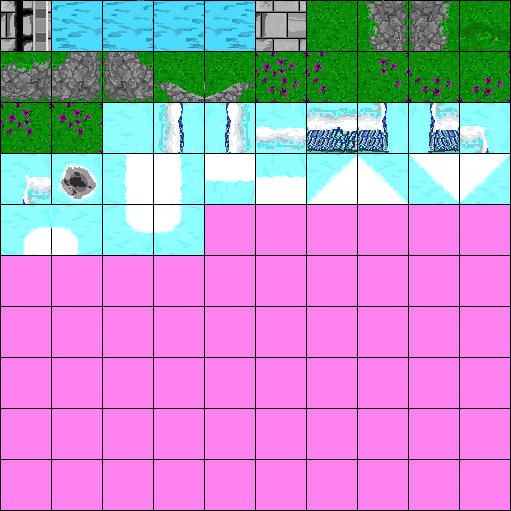
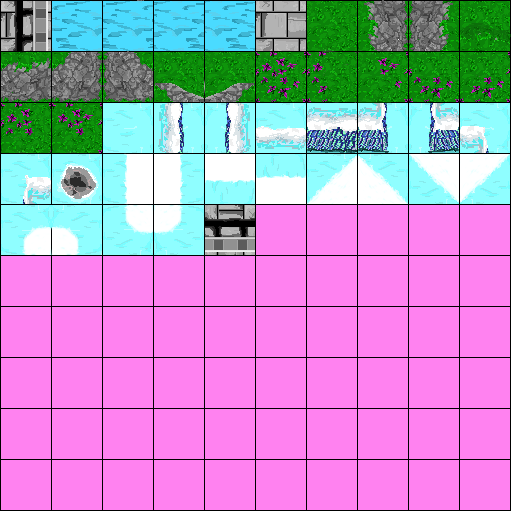
unstable build because i changed lots of stuff to do with level so it wont work, but levels longer and export levels.

Changed region(s): [[0.3816, 0.3816, 0.499, 0.499]]

diff --git a/Marchgame/org.tuxedofish.marchgame/terrain/Parser.java b/Marchgame/org.tuxedofish.marchgame/terrain/Parser.java
@@ -1,6 +1,7 @@
 package terrain;
 
 import java.awt.Color;
+import java.awt.Graphics;
 import java.awt.image.BufferedImage;
 import java.io.File;
 import java.io.IOException;
@@ -11,12 +12,13 @@ import javax.imageio.ImageIO;
 import org.lwjgl.opengl.Display;
 import org.lwjgl.util.vector.Vector2f;
 
+import texture.TextureHolder;
 import utils.MathUtils;
 
 public class Parser {
-	public ArrayList<Block> parseFile(File lvl, Vector2f pos) {
+	public ArrayList<Block> parseFile(File lvl, Vector2f pos, TextureHolder th) {
 		try {
-			return parseLevel(ImageIO.read(lvl), pos);
+			return parseLevel(ImageIO.read(lvl), pos, th);
 		} catch (IOException e) {
 			System.err.println("err reading lvl file");
 			e.printStackTrace();
@@ -24,9 +26,63 @@ public class Parser {
 		System.exit(1);
 		return null;
 	}
-	public ArrayList<Block> parseLevel(BufferedImage lvl, Vector2f pos) {
+	public void drawLevel(BufferedImage level, TextureHolder th) {
+		BufferedImage img = new BufferedImage(level.getWidth()*50, level.getHeight()*50, BufferedImage.TYPE_INT_ARGB);
+		
+		Graphics g = img.getGraphics();
+		
+		for(int i = 0; i < level.getWidth(); i++) {
+			for(int j = 0; j < level.getHeight(); j++) {
+//				if(new Color(level.getRGB(j, i)).equals(Color.green)) {
+//					g.drawImage()
+//				}
+//				//grass-pinkflower
+//				if(new Color(level.getRGB(j, i)).equals(new Color(255, 0, 255))) {
+//					blocks.add(new Block(pos.x + ((float)(j*b.getWidth())/Display.getWidth()), pos.y + ((float)(i*b.getHeight())/Display.getHeight()), 15, 50, 50));
+//				}
+				//path
+//				if(new Color(level.getRGB(j, i)).equals(new Color(255, 120, 0))) {
+//					g.drawImage(th.getImg().getSubimage((0*50)+1, (0*50)+1, 50, 50), i*50, j*50, this);
+//				}
+//				//rightpath
+//				if(new Color(level.getRGB(j, i)).equals(new Color(100, 100, 100))) {
+//					blocks.add(new Block(pos.x + ((float)(j*b.getWidth())/Display.getWidth()), pos.y + ((float)(i*b.getHeight())/Display.getHeight()), 5, 50, 50));
+//				}
+//				//bottompath
+//				if(new Color(level.getRGB(j, i)).equals(new Color(100, 20, 20))) {
+//					blocks.add(new Block(pos.x + ((float)(j*b.getWidth())/Display.getWidth()), pos.y + ((float)(i*b.getHeight())/Display.getHeight()), 45, 50, 50));
+//				}
+//				//port
+//				if(new Color(level.getRGB(j, i)).equals(new Color(255, 50, 50))) {
+//					blocks.add(new Block(pos.x + ((float)(j*b.getWidth())/Display.getWidth()), pos.y + ((float)(i*b.getHeight())/Display.getHeight()), 46, 50, 50));
+//				}
+//				//water
+//				if(new Color(level.getRGB(j, i)).equals(new Color(0, 0, 255))) {
+//					blocks.add(new Block(pos.x + ((float)(j*b.getWidth())/Display.getWidth()), pos.y + ((float)(i*b.getHeight())/Display.getHeight()), 1, 50, 50));
+//				}
+				g.setColor(Color.black);
+				g.drawRect(i*50, j*50, 50, 50);
+				
+				g.setColor(new Color(255, 130, 240));
+				g.fillRect(i*50+1, j*50+1, 50 - 1, 50 - 1);
+			}
+		}
+		
+		g.dispose();
+		
+		try {
+			ImageIO.write(img, "png", new File("currentlevel.png"));
+		} catch (IOException e) {
+			System.err.println("err writing image");
+			e.printStackTrace();
+			System.exit(1);
+		}
+	}
+	public ArrayList<Block> parseLevel(BufferedImage lvl, Vector2f pos, TextureHolder th) {
 		ArrayList<Block> blocks = new ArrayList<Block>();
 		final Block b = new Block(0.0f, 0.0f, 0, 50, 50);
+		
+		drawLevel(lvl, th);
 		
 		for(int i = 0; i < lvl.getHeight(); i++) {
 			for(int j = 0; j < lvl.getWidth(); j++) {
@@ -45,6 +101,14 @@ public class Parser {
 				//rightpath
 				if(new Color(lvl.getRGB(j, i)).equals(new Color(100, 100, 100))) {
 					blocks.add(new Block(pos.x + ((float)(j*b.getWidth())/Display.getWidth()), pos.y + ((float)(i*b.getHeight())/Display.getHeight()), 5, 50, 50));
+				}
+				//bottompath
+				if(new Color(lvl.getRGB(j, i)).equals(new Color(100, 20, 20))) {
+					blocks.add(new Block(pos.x + ((float)(j*b.getWidth())/Display.getWidth()), pos.y + ((float)(i*b.getHeight())/Display.getHeight()), 45, 50, 50));
+				}
+				//port
+				if(new Color(lvl.getRGB(j, i)).equals(new Color(255, 50, 50))) {
+					blocks.add(new Block(pos.x + ((float)(j*b.getWidth())/Display.getWidth()), pos.y + ((float)(i*b.getHeight())/Display.getHeight()), 46, 50, 50));
 				}
 				//water
 				if(new Color(lvl.getRGB(j, i)).equals(new Color(0, 0, 255))) {

diff --git a/Marchgame/org.tuxedofish.marchgame/logic/entities/EnemyLoader.java b/Marchgame/org.tuxedofish.marchgame/logic/entities/EnemyLoader.java
@@ -62,9 +62,11 @@ public class EnemyLoader extends Thread{
 	private int highscore;
 	private SpriteHolder spriteholder;
 	private ArrayList<Float> stops = new ArrayList<Float>();
+	private TextureHolder blockth;
 	
 	public EnemyLoader(boolean cached, String level, Controller parent
-			, BufferedImage enemy, ControllerTimer ct, DisplaySetup display, SpriteHolder spriteholder) {
+			, BufferedImage enemy, ControllerTimer ct, DisplaySetup display, SpriteHolder spriteholder, TextureHolder blockth) {
+		this.blockth = blockth;
 		this.level = level;
 		this.parent = parent;
 		this.enemy = enemy;
@@ -125,14 +127,15 @@ public class EnemyLoader extends Thread{
 			}
 			
 			try {
-				Parser parser = new Parser();
-				blocks = parser.parseLevel(images.getImage(level + ".png"), 
-						new Vector2f(-1.0f, -1.0f));
 				GridParser gp = new GridParser();
 				
 				TextureHolder texture = gp.parseGrid(images.getImage("spaceship.png"), 50);
 				player = new Player(images.getImage("spaceship.png"), 100, 100, texture, 0,
 						new Vector2f(0.0f, -0.75f), parent);
+				
+				Parser parser = new Parser();
+				blocks = parser.parseLevel(images.getImage(level + ".png"), 
+						new Vector2f(-1.0f, -1.0f), blockth);
 				
 //				Vector2f p = new Vector2f(-1.0f, 0.0f);
 //				BufferedImage img = images.getImage("trees.png");
@@ -161,11 +164,13 @@ public class EnemyLoader extends Thread{
 				}
 				
 				reader2.close();
-				
+				 // NEEDS SERIOUS WORK POSITIONING
 				if(level.equals("level1")) {
-					boss = new HiveEye(parent, player, ct);
+					boss = new HiveEye(parent, player, ct, 
+							(images.getImage("LEVEL1.png").getHeight() * 50) / (Display.getHeight())-2);
 				} else {
-					boss = new HiveJet(parent, player, ct);
+					boss = new HiveJet(parent, player, ct, 
+							(images.getImage("LEVEL1.png").getHeight() * 50) / (Display.getHeight())-2);
 				}
 			} catch (IOException e1) {
 				System.err.println("err loading img");

diff --git a/Marchgame/org.tuxedofish.marchgame/start/Controller.java b/Marchgame/org.tuxedofish.marchgame/start/Controller.java
@@ -217,7 +217,17 @@ public class Controller {
 				e.printStackTrace();
 			}
 			sph.finish();
-			el = new EnemyLoader(true, level, this, null, ct, display, sph);
+			
+			GridParser gp = new GridParser();
+			try {
+				blocktex = gp.parseGrid(images.getImage("LAND2.png"), 50);
+			} catch (IOException e) {
+				System.out.println("u done fucked up");
+				e.printStackTrace();
+			}
+			blocktex.finish();
+			
+			el = new EnemyLoader(true, level, this, null, ct, display, sph, blocktex);
 		}
 	}
 	public void startupfinish() throws IOException {
@@ -258,10 +268,9 @@ public class Controller {
 		
 		sch = new ScoreHandler(this, player);
 		sch.finish(glGenBuffers(), glGenVertexArrays());
+	
+		ImageReturn images = new ImageReturn();
 		
-		GridParser gp = new GridParser(); ImageReturn images = new ImageReturn();
-		blocktex = gp.parseGrid(images.getImage("LAND2.png"), 50);
-		blocktex.finish();
 		levelheight = (images.getImage("LEVEL1.png").getHeight() * 50) / (Display.getHeight())-2;
 		lr = new LevelRenderer(ct.addTimeStep(600));
 		blockdata = lr.getLevelData(blocks, blocktex);
@@ -545,7 +554,6 @@ public class Controller {
 	public void rendergl(ShaderHandler sh, DisplaySetup d) {
 		DataUtils util = new DataUtils();
 		util.begin(sh, d);
-		System.out.println(d.getPos().y*480);
 		for(int i=0; i<stops.size(); i++) {
 			if(d.getPos().y*-480 > stops.get(i)) {
 				pausedcombat = true;
@@ -558,8 +566,8 @@ public class Controller {
 		}
 		if((d.getPos().y + 0.25f > levelheight*-1)) {
 			if(!pausedcombat) {
-				display.changepos(0.0f, -0.0025f, 0.0f);
-				player.changePos(0.0f, 0.0025f);
+				display.changepos(0.0f, -0.01f, 0.0f);
+				player.changePos(0.0f, 0.01f);
 				for(int i=0; i<enemies.size(); i++) {
 					enemies.get(i).scroll();
 				}

diff --git a/Marchgame/org.tuxedofish.marchgame/terrain/LevelRenderer.java b/Marchgame/org.tuxedofish.marchgame/terrain/LevelRenderer.java
@@ -7,10 +7,17 @@ import static org.lwjgl.opengl.GL11.glDrawElements;
 import static org.lwjgl.opengl.GL20.glGetUniformLocation;
 import static org.lwjgl.opengl.GL20.glUniformMatrix4;
 
+import java.awt.Color;
+import java.awt.Graphics;
+import java.awt.image.BufferedImage;
+import java.io.File;
+import java.io.IOException;
 import java.nio.ByteBuffer;
 import java.nio.FloatBuffer;
 import java.nio.IntBuffer;
 import java.util.ArrayList;
+
+import javax.imageio.ImageIO;
 
 import org.lwjgl.BufferUtils;
 import org.lwjgl.opengl.Display;
@@ -64,6 +71,7 @@ public class LevelRenderer {
 				f.put((i*40) + j, fb.get(j));
 			}
 		}
+		
 		
 		f.position(0);
 		f.rewind();

diff --git a/Marchgame/org.tuxedofish.marchgame/logic/entities/boss/HiveJet.java b/Marchgame/org.tuxedofish.marchgame/logic/entities/boss/HiveJet.java
@@ -16,7 +16,7 @@ import start.ControllerTimer;
 import texture.TextureHolder;
 
 public class HiveJet extends BossType{
-	public HiveJet(Controller parent, Player player, ControllerTimer ct) {
+	public HiveJet(Controller parent, Player player, ControllerTimer ct, float y) {
 		super(new Vector2f(0.0f, 0.0f), 0, parent, null, player, player.getBullets(), ct.addTimeStep(200));
 		ImageReturn images = new ImageReturn(); GridParser gp = new GridParser();
 		try {

diff --git a/Marchgame/org.tuxedofish.marchgame/logic/entities/boss/HiveEye.java b/Marchgame/org.tuxedofish.marchgame/logic/entities/boss/HiveEye.java
@@ -18,7 +18,7 @@ public class HiveEye extends BossType{
 	private int ticks = 0;
 	private int shootingstage = -1;
 	
-	public HiveEye(Controller parent, Player player, ControllerTimer ct) {
+	public HiveEye(Controller parent, Player player, ControllerTimer ct, float y) {
 		super(new Vector2f(0.0f, 0.0f), 0, parent, null, player, player.getBullets(), ct.addTimeStep(200));
 		ImageReturn images = new ImageReturn(); GridParser gp = new GridParser();
 		try {
